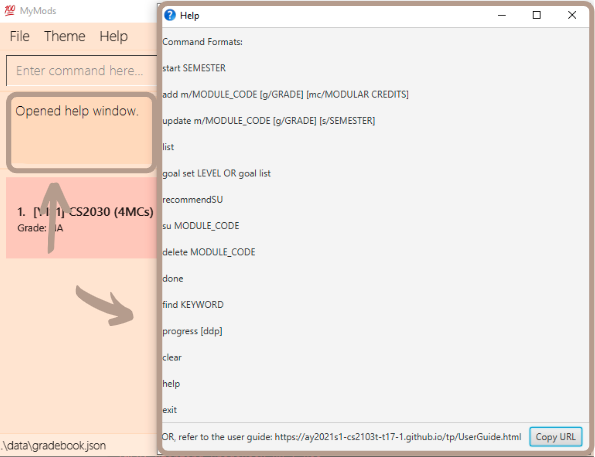
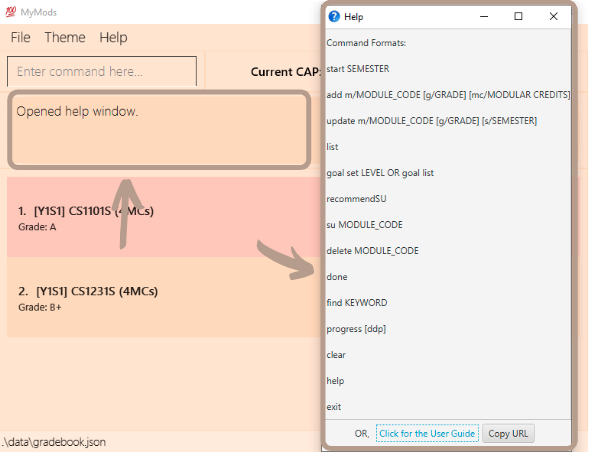
UG update

diff --git a/src/main/java/seedu/address/ui/HelpWindow.java b/src/main/java/seedu/address/ui/HelpWindow.java
@@ -13,6 +13,8 @@ import javafx.scene.control.Label;
 import javafx.scene.control.ScrollPane;
 import javafx.scene.input.Clipboard;
 import javafx.scene.input.ClipboardContent;
+import javafx.scene.layout.Border;
+import javafx.scene.paint.Color;
 import javafx.stage.Stage;
 import seedu.address.commons.core.LogsCenter;
 
@@ -79,6 +81,7 @@ public class HelpWindow extends UiPart<Stage> {
 
         //set hyperlink
         hyperLink.setText("Click for the User Guide");
+        hyperLink.setBorder(Border.EMPTY);
         handleLinkClicked();
     }
 
@@ -90,6 +93,7 @@ public class HelpWindow extends UiPart<Stage> {
         hyperLink.setOnAction(args -> {
             try {
                 Desktop.getDesktop().browse(new URI(USERGUIDE_URL));
+                hyperLink.setTextFill(Color.PURPLE);
             } catch (IOException | URISyntaxException e) {
                 e.printStackTrace();
             }

diff --git a/docs/DeveloperGuide.md b/docs/DeveloperGuide.md
@@ -22,6 +22,16 @@ Contribute to this [project](https://github.com/AY2021S1-CS2103T-T17-1/tp)
     * [Dark/Light Mode](#Dark/Light_Mode)
     * [Start Semester](#Start_Semester)
     * [Show progress towards target CAP](#Show_progress_towards_target_CAP)
+* **[Instructions for Manual Testing](#Instructions_for_Manual_Testing)**
+    * [Launch and shutdown](#Launch_and_shutdown)
+    * [Adding a module](#Adding_a_module)
+    * [Updating/SU-ing a module](#Updating/SU-ing_a_module)
+    * [Recommending modules to SU](#Recommending_modules_to_SU)
+* **[Effort](#Effort)**
+    * [Difficulty level](#Difficulty_level)
+    * [Challenges faced](#Challenges_faced)
+    * [Effort required](#Effort_required)
+    * [Achievements of this projects](#Achievements_of_this_projects)
 * **[Documentation, logging, testing, configuration, dev-ops](#Documentation,_logging,_testing,_configuration,_dev-ops)**
 * **[Product scope](#Product_scope)**
     * [Target user profile](#Target_user_profile)
@@ -356,6 +366,123 @@ Aspect: how does the user input their desired CAP.
 <br>
 
 [Back to top](#top)
+
+--------------------------------------------------------------------------------------------------------------------
+
+## Instructions for Manual Testing <a name="Instructions_for_Manual_Testing"></a>
+
+### Launch and shutdown <a name="Launch_and_shutdown"></a>
+
+1. Initial launch
+    1. Download the jar file and copy into an empty folder.<br><br>
+    2. Double-click the jar file Expected: Shows the GUI. The window size may not be optimum.<br><br>
+2. Saving window preferences
+    1. Resize the window to an optimum size. Move the window to a different location. Close the window.<br><br>
+    2. Re-launch the app by double-clicking the jar file.<br>
+       Expected: The most recent window size and location is retained.<br><br>
+
+### Adding a module <a name="Adding_a_module"></a>
+
+1. Adding a module while editing a semester
+    1. Prerequisites: Start editing a semester using the `start` command.<br>
+     Currently editing a valid semester with no modules in the entire app added yet.<br><br>
+    2. Test case: `add m/CS1231S g/A`<br>
+       Expected: Module “CS1231S (4MCs)” is added to the current semester, with “Grade: A”. CAP in the status bar is updated.<br><br>
+    3. Test case: `add m/CS1101S`<br>
+      Expected: Module “CS1101S (4MCs)” is added to the current semester, with “Grade: NA”. CAP in the status bar is not updated.<br><br>
+    4. Test case: `add m/GER1000 mc/8`<br>
+      Expected : Module “GER1000 (8MCs)” is added to the current semester, with “Grade: NA”. CAP in the status bar is not updated.<br><br>
+    5. Test case: `add m/GER1000 g/A`<br>
+      Expected: Unable to add the module as it already exists in your module list.<br><br>
+    6. Test case: `add GEQ1000 A+`<br>
+      Expected: Invalid command format.<br><br>
+    7. Other incorrect add commands to try: `add`, `add mod/GEQ1000`, `…`<br>
+      Expected: Similar to previous.<br><br>
+2. Adding a module while not editing any semesters
+    1. Prerequisites: Not editing any semesters. (The status bar shows “Currently editing: NA”)<br><br>
+    2. Test case: `add m/GEQ1000`<br>
+       Expected: Unable to add module as no semester is being edited,
+        command result prompts to start a semester before modifying the module list.<br><br>
+
+### Updating/SU-ing a module <a name="Updating/SU-ing_a_module"></a>
+
+1. Updating a module while editing a semester
+    1. Prerequisites: Start editing a semester using the `start` command, and add the module “CS1101S”, with Grade “A”.
+     Currently editing a valid semester with the module “CS1101S (4MCs) Grade: A” added inside.<br><br>
+    2. Test case: `update m/CS1101S g/B+`<br>
+       Expected: Updates the module “CS1101S”, replacing the grade from “A” to “B+”.<br><br>
+    3. Test case: `su CS1101S`<br>
+      Expected: Successfully updates the grade of “CS1101S” to “SU”.<br><br>
+    4. Test case: `update m/ST2334 g/B+`<br>
+       Expected: Unable to update any module as the module name provided is invalid.<br><br>
+    5. Other incorrect update commands to try: `update`, `update ST2334`, `...`
+       Expected: Invalid command format.<br><br>
+2. Updating a module from another semester
+    1. Prerequisites: Currently editing the semester “Y2S1”. A module was previously added in another semester.
+     e.g. the module “CS1101S” was previously added in semester “Y1S1”.<br><br>
+    2. Test case: `update m/CS1101S g/B+`<br>
+       Expected: Unable to update module as the module you are trying to update is in another semester.<br><br>
+3. Updating a module while not editing any semesters
+    1. Prerequisites: Not editing any semesters. (The status bar shows “Currently editing: NA”)<br><br>
+    2. Test case: `update m/CS1101S g/B+`<br>
+       Expected: Unable to update any module as no semester is being edited,
+        command result prompts to start a semester before modifying the module list.<br><br>
+    3. Test case: `su CS1101S`<br>
+       Expected: Similar to above.<br><br>
+
+### Recommending modules to SU <a name="Recommending_modules_to_SU"></a>
+
+1. Recommending modules to SU with valid modules to SU.
+    1. Prerequisites: A goal has been previously set using `goal set`. For the purpose of the test cases below,
+     we would be assuming the current goal set is 1. (i.e. the command `goal set 1` was entered).
+      There are currently 2 modules added and listed, “CS1101S (4MCs), Grade: C+”, and “CS1231S (4MCs), Grade: A”.<br><br>
+    2. Test case: `recommendSU`<br>
+       Expected: The module CS1231S is recommended.<br><br>
+    3. Test case: `recommendSU y2s1`<br>
+       Expected: Invalid command format, as there should be no input after recommendSU.<br><br>
+    4. Other incorrect recommendSU commands to try: `recommendSU all`, `recommendSU CAP5`, `…`<br>
+       Expected: Similar to previous.<br><br>
+2. Recommending modules to SU with no valid modules to SU
+    1. Prerequisites: A goal has been previously set using `goal set`. For the purpose of the test cases below, we would
+     be assuming the current goal set is 1. (i.e. the command `goal set 1` was entered). There are currently no modules added.<br><br>
+    2. Test case: `recommendSU`<br>
+       Expected: No modules would be recommended to S/U based on your goal.<br><br>
+
+--------------------------------------------------------------------------------------------------------------------
+
+## Effort <a name="Effort"></a>
+
+### Difficulty level <a name="Difficulty_level"></a>
+
+The overall difficulty level of our project is high as we were met with numerous challenges which required substantial effort to overcome.
+
+### Challenges faced <a name="Challenges_faced"></a>
+
+### Effort required <a name="Effort_required"></a>
+
+### Achievements of the project <a name="Achievements_of_the_project"></a>
+
+Our project is an innovative solution to the problem which many NUS students face: spending large pockets of time at
+ the start of every semester to do module planning and goal setting, and at the end of every semester to calculate
+  their CAP and decide on which modules to S/U so as to achieve their goal and track their progress towards it.
+   With MyMods, NUS students will spend significantly less time on such manual, mundane and repetitive tasks
+    and can channel their precious time and energy on more important tasks. Together with the aesthetically-pleasing
+     and intuitive user interface of MyMods ensures a fuss-free, seamless and enjoyable user experience.
+     
+* Our application is capable of the following features:
+    1. Start a specific semester to modify the list of modules in that particular semester by adding, deleting or updating module(s).
+    2. Add module(s) which exist in our database with a specified grade. A ‘NA’ grade will be automatically assigned
+     to a new module added in the event the grade parameter is empty.
+    3. Add module(s) which are yet to be recorded in our database (our database is only valid up to AY19/20)
+     and specify the number of modular credits (MCs).
+    4. Update the grade and semester of module(s). In the event the user wishes to remove the grade assigned to a module,
+     updating the module without a grade parameter will remove the grade and assign the module with a ‘NA’ grade.
+    5. Set a goal out of the 6 different goals MyMods offer with each covering a specific cap range.
+    6. Allows users to track their progress towards their goal as they will be informed with the average CAP
+     needed for their remaining modules to achieve the goal they have set.
+    7. Provides recommendations on which modules to S/U based on the individual’s specific goal, current grades and CAP.
+    8. Automatically and instantly calculates and updates the CAP after every modification the user makes - including adding, deleting, updating, and S/U-ing modules.
+    9.
 
 --------------------------------------------------------------------------------------------------------------------
 

diff --git a/docs/UserGuide.md b/docs/UserGuide.md
@@ -136,10 +136,12 @@ Below is information about the features and commands of **MyMods**:100:.
     * In add command format: `add m/MODULE_CODE [g/GRADE] [mc/MODULAR_CREDIT]`, `add`, `m/`, `g/` and `mc/`
     are to be specified exactly.<br><br>
     
-* Multiple instances of the same prefix will not throw an error. However, the app will only read the last instance in the input.<br>
+* Multiple instances of the same prefix/input field will not throw an error. However,
+ the app will only read the <strong>last valid instance</strong> in the input.<br>
     * e.g `add m/CS2100 m/CS2103` will add the module CS2103.<br><br>
+    * e.g `goal set 1 set 2` will set the goal to 2
 
-* Parameters can be in any order.<br>
+* Parameters can be <strong>in any order</strong>.<br>
     * e.g `add m/CS2100 g/A` is the same as `add g/A m/CS2100`.<br><br>
 
 * Command words are <strong>case-sensitive</strong> and must be in <strong>lower_case</strong>.<br>
@@ -149,8 +151,8 @@ Below is information about the features and commands of **MyMods**:100:.
     * `m/` is the same as `M/`.<br><br>
 
 * Parameters(words in UPPER_CASE) are <strong>case-insensitive</strong>.<br>
-    * `add m/CS2100` is the same as `add m/cs2100`<br>
-    * `start Y1S1` is the same as `start y1s1`.<br>
+    * `add m/CS2100` is the same as `add m/cs2100` and `add m/Cs2100`.<br>
+    * `start Y1S1` is the same as `start y1s1` and `start y1S1`.<br>
     * `find cs` is the same as `find CS`<br><br>
 
 * Adding additional inputs (excluding whitespaces) after <strong>commands that do not require parameters</strong> will result in an invalid command.<br>
@@ -221,8 +223,9 @@ Examples:
 *   `add m/CS1231 g/A`
 
 <div markdown="span" class="alert alert-info">
-:warning: Use of parameter `[mc/MODULAR_CREDIT]` to manually add modules that are not in our database is not recommended.
- However, to add a module that is not recognised by <strong>MyMods</strong>:100:, refer to the warning after the example usage below.
+:warning: Use of parameter `[mc/MODULAR_CREDIT]` is to manually add modules that are not in our database.
+ <strong>This is not recommended</strong>. However, to add a module that is not recognised by
+  <strong>MyMods</strong>:100:, refer to the warning after the example usage below.
 <br>
 </div>
 
@@ -276,6 +279,9 @@ Examples:
 *   `update M/cs1101s G/c s/y2s1`
 *   `update m/CS1101s S/y2S1`
 
+<div markdown="span" class="alert alert-primary">
+:bulb: Not including a grade parameter will remove the grade and assign the grade as ‘NA’.
+</div><br>
 
 To update a module (e.g. CS2030):
 
